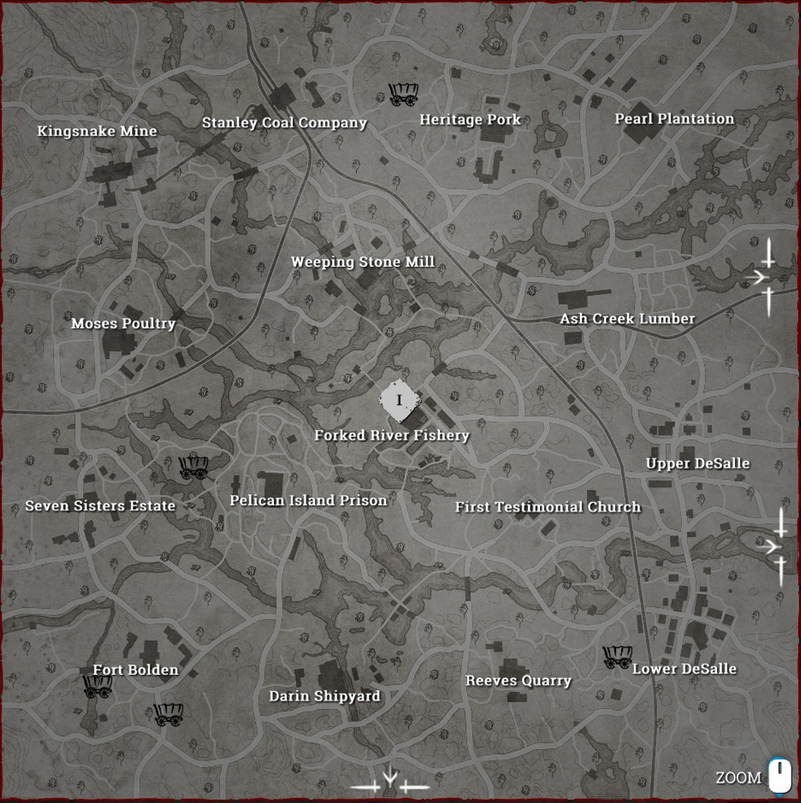
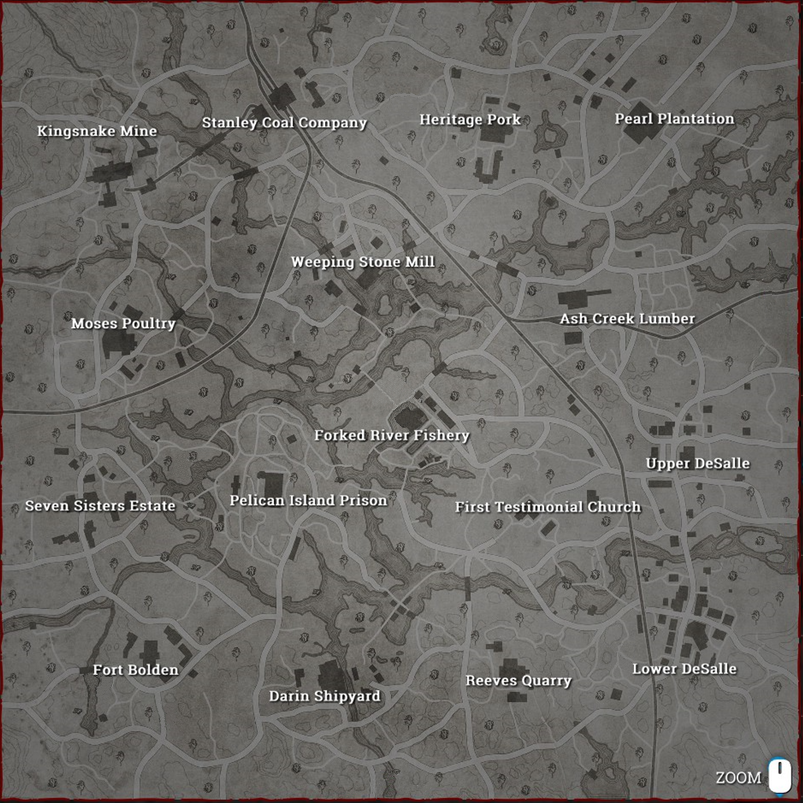
Desalle spawns & first markers

diff --git a/debug/desalle/desalle_index_debug.html b/debug/desalle/desalle_index_debug.html
@@ -6,47 +6,42 @@
 	  <link rel="stylesheet" href="https://unpkg.com/leaflet@1.7.1/dist/leaflet.css" integrity="sha512-xodZBNTC5n17Xt2atTPuE1HxjVMSvLVW9ocqUKLsCC5CXdbqCmblAshOMAS6/keqq/sMZMZ19scR4PsZChSR7A==" crossorigin=""/>
 	  <script src="https://unpkg.com/leaflet@1.7.1/dist/leaflet.js" integrity="sha512-XQoYMqMTK8LvdxXYG3nZ448hOEQiglfqkJs1NOQV44cWnUrBc8PkAOcXy20w0vlaXaVUearIOBhiXZ5V3ynxwA==" crossorigin=""></script>
 
-		<link rel="preconnect" href="https://fonts.googleapis.com">
+    <link rel="preconnect" href="https://fonts.googleapis.com">
 		<link rel="preconnect" href="https://fonts.gstatic.com" crossorigin>
 		<link href="https://fonts.googleapis.com/css2?family=Bebas+Neue&display=swap" rel="stylesheet">
 
-		<script src="../../jquery-3.6.0.min.js"></script>
-
-		<link rel="stylesheet" href="../../style.css"/>
-	</head>
-
-	<body>
-		<div class='navBar'>
-			<ul>
-				<li><a href="../bayou/bayou_index.html">Stillwater Bayou</a></li>
-				<li><a href="../delta/delta_index.html">Lawson Delta</a></li>
-				<li><a class="active" href="../desalle/desalle_index.html">DeSalle</a></li>
-			</ul>
-		</div>
-
-		<div id='mapDiv'></div>
-
+    <script src="../../jquery-3.6.0.min.js"></script>
 		<style>
-			.leaflet-popup-tip-container {
-				display: none;
+			html, body {
+				height: 100%;
+				margin: 0;
+				font-family: 'Bebas Neue', cursive;
+				background-color: #333
+			}
+
+			#mapDiv {
+			  width: 803px;
+			  height: 803px;
+			  background: #111;
 			}
 		</style>
+  </head>
+
+	<body>
+		<div id='mapDiv'></div>
 
 		<script type="text/javascript" src="../../js/mapProcessing.js"></script>
+		<script type="text/javascript" src="../../js/mapDebug.js"></script>
 		<script>
 			// LOCATIONS //
-			var mapImageLocation = "images/desalle_map.png"
-			var screenshotsLocation = "images/screenshots/"
+			var mapImageLocation = "../../maps/desalle/images/desalle_map.png"
 			var iconsLocation =  "../../icons/"
-			var markersFile = "desalle_markers.csv"
-			var spawnsFile = "desalle_spawns.csv"
+			var screenshotsLocation = "../../maps/desalle/images/screenshots/"
 
 			// Launching map
 			var map = mapInitilisation()
-
-			// Fetching the data for the markers, then add it to the map
-			fetchingAndAddingMarkers(markersFile, iconsLocation, screenshotsLocation, map);
-			fetchingAndAddingSpawns(spawnsFile, map);
+			addMarkerOnClick(map)
 		</script>
+
 	</body>
 </html>
